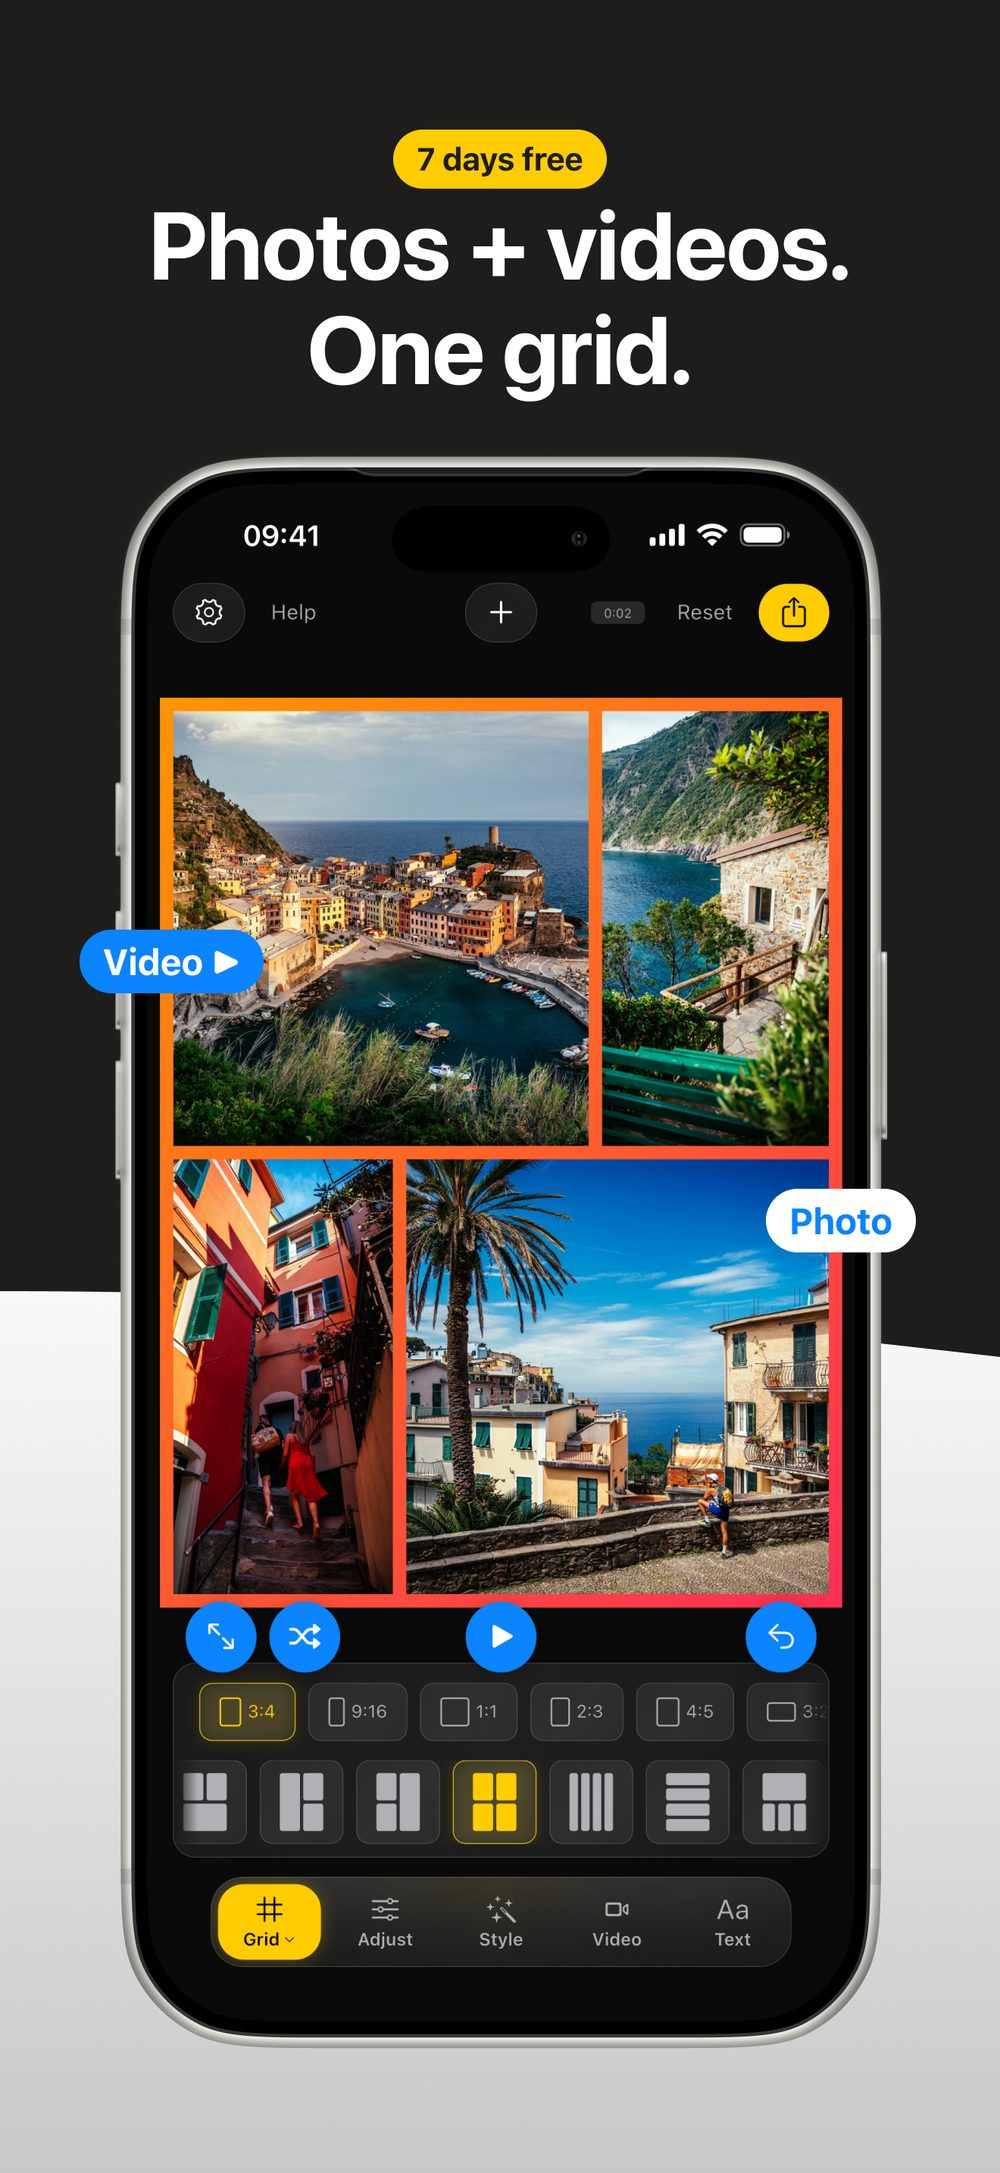
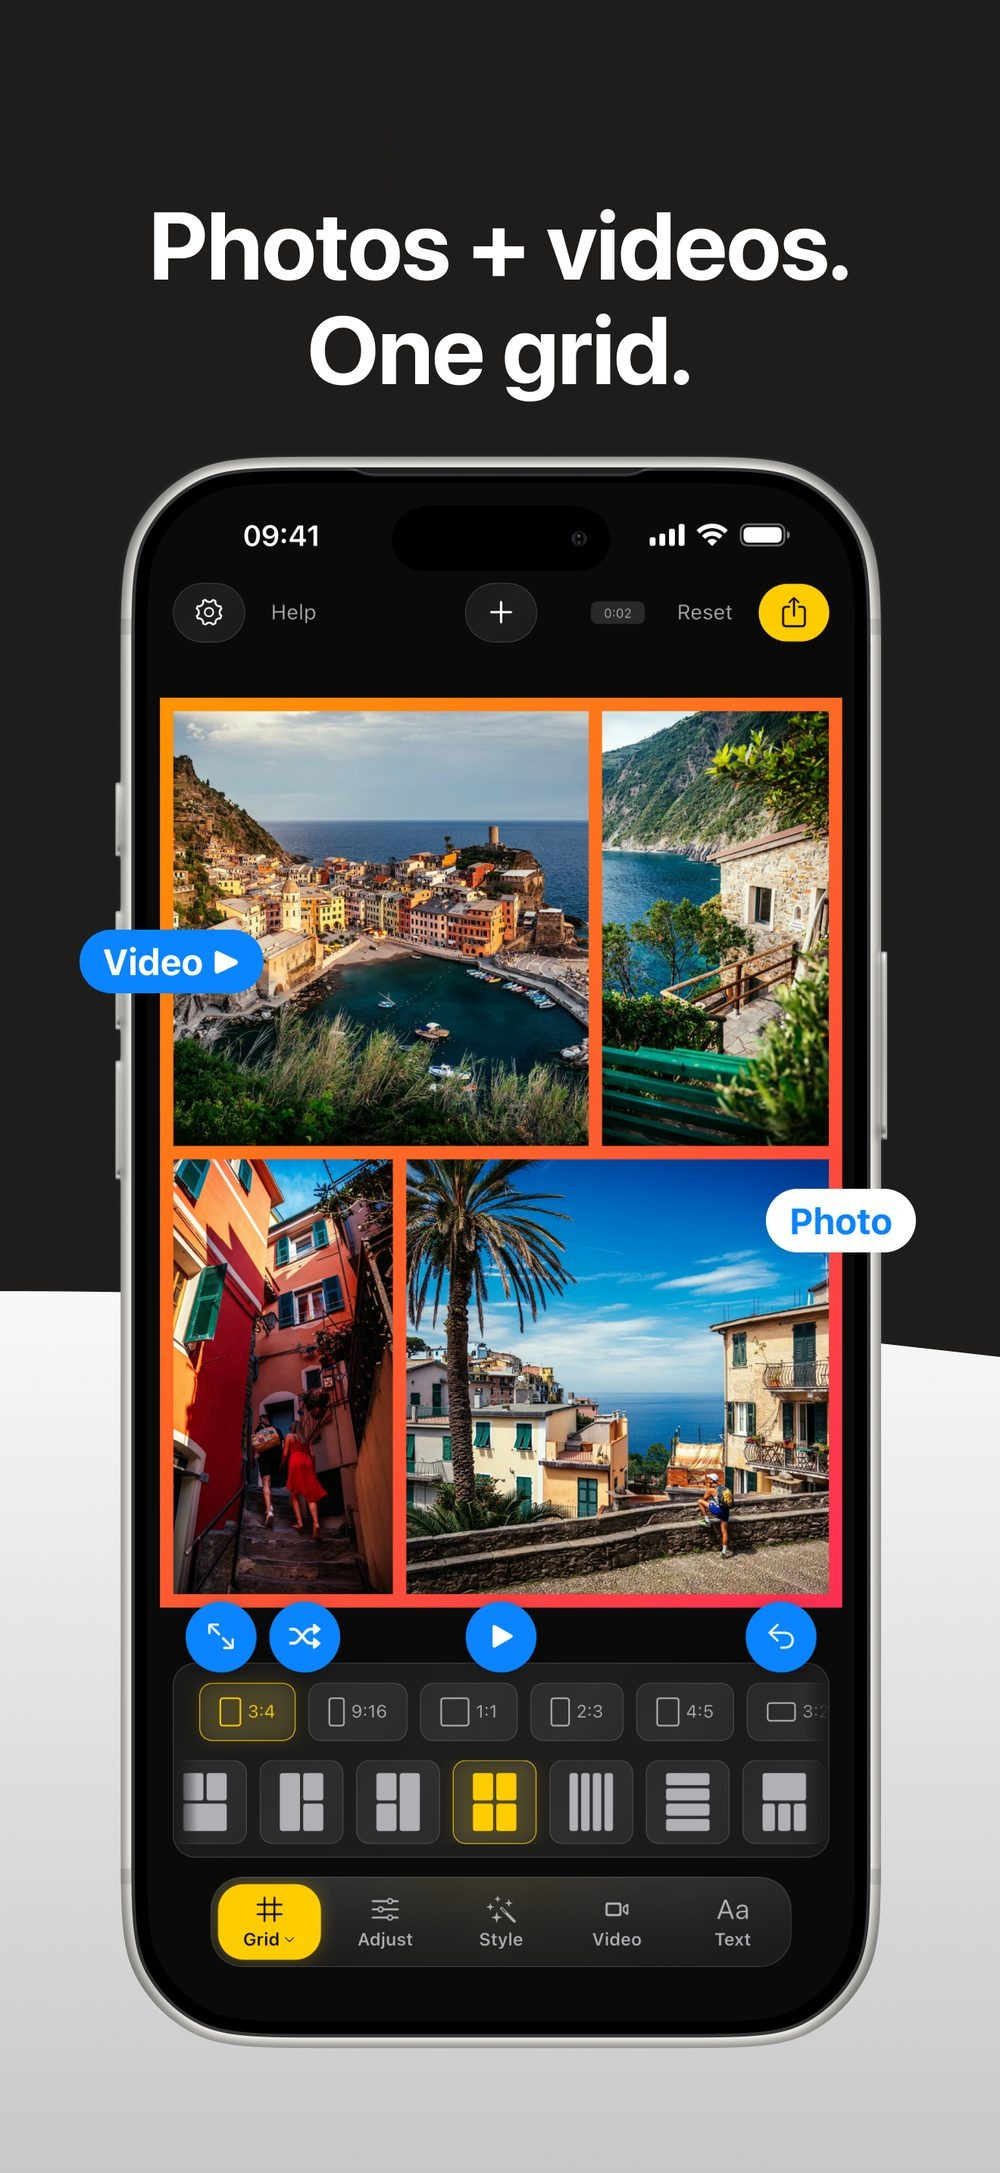
Landing : plus de « Works fully offline » ni de « 7 days free », une FAQ et une ligne d'identité (pas « Collaj App »/Jodu), robots.txt et sitemap.xml
Vote Ka du 28/10 (kit marketing online de la 1.2, §2.1 « maintenant ») :
- « Works fully offline » retiré : les pubs, les achats et la restauration
  passent par internet. « Nothing is uploaded, ever » devient « Your photos
  and videos are never uploaded » (les pubs et les achats envoient des
  données, pas les médias).
- FAQ en 8 questions, vraies pour la 1.1.3 en ligne : langues = les 7 de la
  1.1.3 (thaï, turc et ukrainien à ajouter le jour de la 1.2), ce que donne
  Premium (4K, 60 fps, plusieurs vidéos, le 1er collage multi-vidéo offert),
  ce qui demande une connexion. Dernière question : qui fait Collaj, l'ID App
  Store et « pas lié à Collaj App (Jodu) ni au site collaj.app ».
- La pastille « 7 days free » effacée de l'image du haut et de l'image de
  partage (og.jpg) : même fausse promesse que le texte retiré le 22/10
  (l'essai n'existe qu'à l'annuel et dure 3 ou 7 jours selon le pays).
- robots.txt (tout est permis, avec le plan du site) et sitemap.xml
  (l'accueil et la politique de confidentialité).
- Plus de défilement horizontal sur téléphone (les captures dépassaient
  de 1 à 5 px à 320-390 px) ni entre 901 et 924 px.

app-ads.txt, README et les autres images sont inchangés.

Changed region(s): [[0.372, 0.0617, 0.62, 0.0925]]

diff --git a/index.html b/index.html
@@ -97,6 +97,18 @@
     .honest li::before { content: "— "; color: #FF6B35; font-weight: 800; }
     .honest .fineprint { margin-top: 26px; font-size: 0.9rem; color: #777; line-height: 1.6; }
 
+    /* ---------- FAQ ---------- */
+    .faq { max-width: 680px; margin: 0 auto; padding: 0 24px 64px; }
+    .faq h2 { font-size: clamp(1.6rem, 4.5vw, 2.2rem); font-weight: 800; letter-spacing: -0.02em; margin-bottom: 8px; text-align: center; }
+    .faq h2 span { color: #FFCC00; }
+    .faq .qa { padding: 22px 0; border-bottom: 1px solid rgba(255,255,255,0.08); }
+    .faq .qa:last-child { border-bottom: none; }
+    .faq h3 { font-size: 1.12rem; font-weight: 700; color: #e8e8e8; line-height: 1.35; margin-bottom: 8px; }
+    .faq p { font-size: 1rem; color: #b5b5b5; line-height: 1.6; }
+    .faq p + p { margin-top: 8px; }
+    .faq a { color: #FFCC00; text-decoration: none; }
+    .faq a:hover { text-decoration: underline; }
+
     footer {
       padding: 24px 24px 48px; text-align: center;
       font-size: 0.82rem; color: #555; line-height: 2.1;
@@ -106,14 +118,15 @@
     footer .foot-icon { width: 40px; height: 40px; border-radius: 10px; display: block; margin: 0 auto 10px; opacity: 0.9; }
 
     /* ---------- Mobile ---------- */
-    @media (max-width: 900px) {
+    @media (max-width: 940px) {
       .hero {
-        grid-template-columns: 1fr;
+        grid-template-columns: minmax(0, 1fr);
         gap: 44px; padding: 48px 24px 24px;
       }
       .hero-copy { align-items: center; text-align: center; }
       .brand { flex-direction: column; gap: 14px; }
-      .hero-stills { width: 94vw; gap: 10px; }
+      /* Wider than the padded column: centred on it, so it overflows evenly and never past the screen. */
+      .hero-stills { width: 94vw; gap: 10px; margin: 0 0 0 calc(50% - 47vw); }
       .honest { padding-top: 40px; }
     }
   </style>
@@ -142,10 +155,55 @@
     <ul>
       <li>No account</li>
       <li>No watermark</li>
-      <li>Works fully offline</li>
       <li>Your media never leave<br>your device</li>
     </ul>
-    <p class="fineprint">Everything is rendered on your iPhone. Nothing is uploaded, ever.</p>
+    <p class="fineprint">Everything is rendered on your iPhone. Your photos and videos are never uploaded.</p>
+  </section>
+
+  <section class="faq" id="faq">
+    <h2>Questions <span>&amp; answers.</span></h2>
+
+    <div class="qa">
+      <h3>What is Collaj?</h3>
+      <p>Collaj is an iPhone app for collages that mix photos and videos. Pick a grid or place things freely, trim, loop and change the speed of each video clip, then export a photo, an MP4 video or a GIF, up to 4K.</p>
+    </div>
+
+    <div class="qa">
+      <h3>Can I put photos and videos in the same collage?</h3>
+      <p>Yes, that&rsquo;s what Collaj is for. Each video plays in its own cell, with its own trim, loop and speed.</p>
+    </div>
+
+    <div class="qa">
+      <h3>Is Collaj free?</h3>
+      <p>Free to start. Photo collages are free, with no ads. Your first video export is free; after that, each video export costs a short ad, or you go Premium.</p>
+      <p>Premium removes the ads and adds several videos in one collage (your first one is on us, once), 4K and 60&nbsp;fps export and the full creative library. It&rsquo;s a weekly, monthly or yearly subscription (the yearly plan includes a free trial), or a one-time lifetime purchase.</p>
+    </div>
+
+    <div class="qa">
+      <h3>Is there a watermark?</h3>
+      <p>No. Not on photos, videos or GIFs.</p>
+    </div>
+
+    <div class="qa">
+      <h3>Do I need an account? Where do my photos go?</h3>
+      <p>No account, no sign-up. Collages are made and exported on your iPhone. Your photos and videos are never uploaded.</p>
+    </div>
+
+    <div class="qa">
+      <h3>Does it work without internet?</h3>
+      <p>Making and exporting collages happens on the iPhone. Ads, purchases, restoring Premium and photos or videos stored only in iCloud need a connection.</p>
+    </div>
+
+    <div class="qa">
+      <h3>Which languages?</h3>
+      <p>English and French, plus Spanish, Brazilian Portuguese, Russian, German and Japanese in beta. Collaj follows your iPhone&rsquo;s language, and you can pick another one in its settings.</p>
+    </div>
+
+    <div class="qa">
+      <h3>Who makes Collaj?</h3>
+      <p>Collaj is made by Arnaud Desne, a solo developer. App Store ID 6762120242. It is not related to &ldquo;Collaj App&rdquo; (now called Jodu) or to the website collaj.app.</p>
+      <p>Contact: <a href="mailto:collaj.app@proton.me">collaj.app@proton.me</a></p>
+    </div>
   </section>
 
   <footer>
